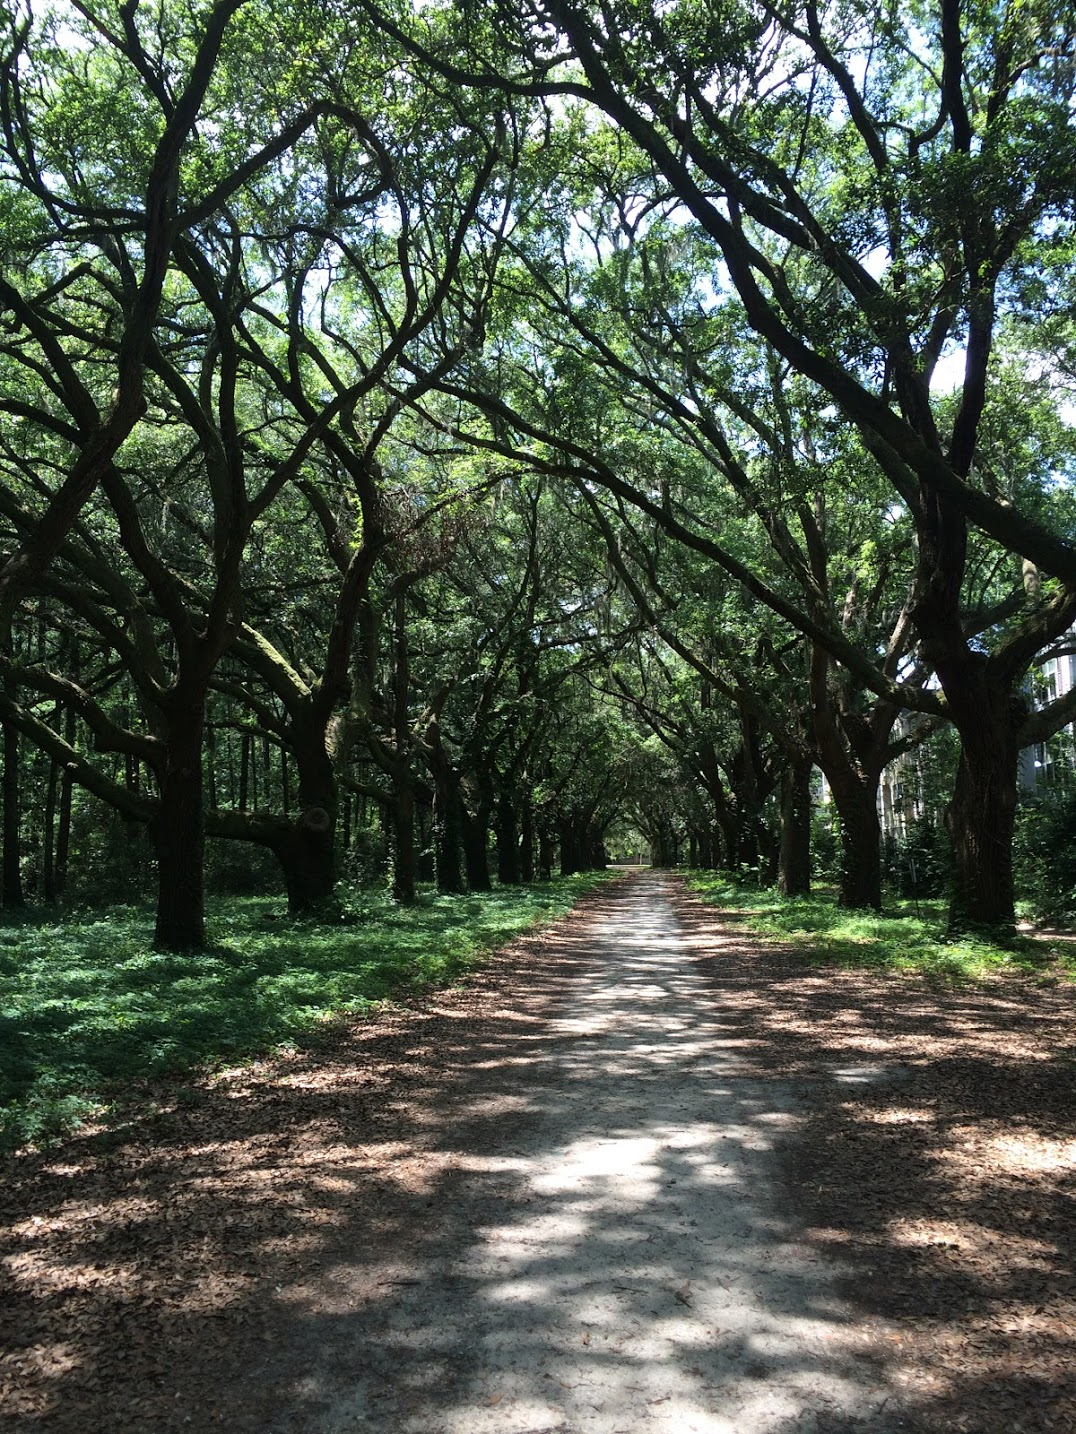
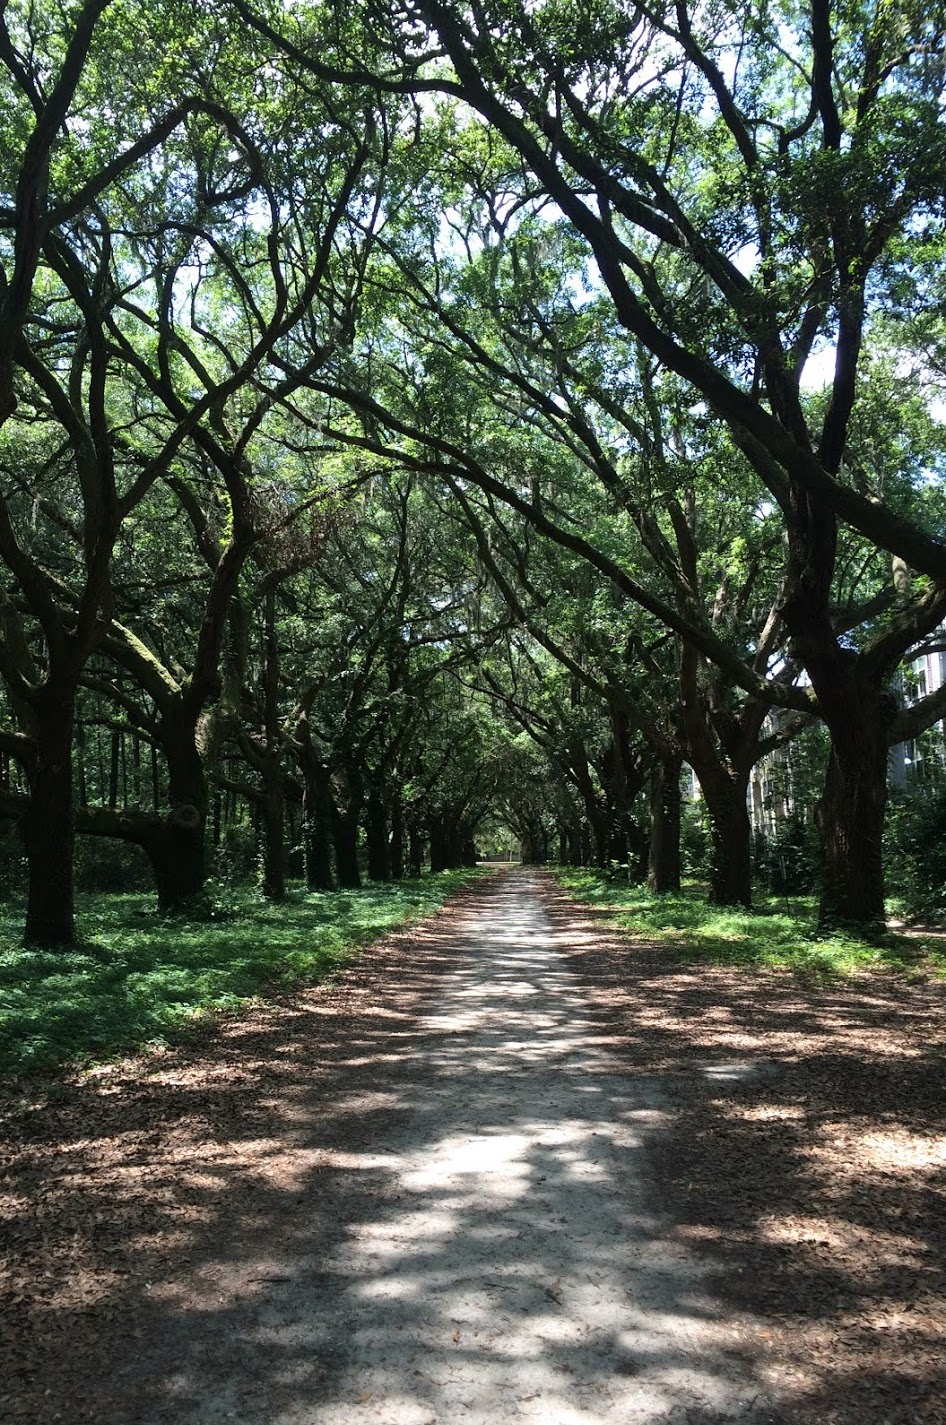
mobile image adjustments

diff --git a/assets/css/style.css b/assets/css/style.css
@@ -8,7 +8,7 @@ body {
 *****************************************************/
 
 .jumbotron {
-	background-image: url("../images/fenwick.JPG");
+	background-image: url("../images/fenwick640.JPG");
 	background-size: cover;
 	background-repeat: no-repeat;
 	background-position: center;
@@ -160,6 +160,10 @@ a {
 	font-size: large;
 }
 
+.descrip-left {
+	display: none
+}
+
 #whoMobile {
 	display: none;
 }
@@ -172,9 +176,14 @@ a {
 	background-position: center;
 }
 
+.mainPicContainer {
+	padding: 0;
+}
+
 #meAndSyd {
-	background-image: url("../images/MeAndSydney.JPG");
-	background-size: contain;
+	
+	background-image: url("../images/MeAndSyd640.JPG");
+	background-size: cover;
 	background-repeat: no-repeat;
 	background-position: center;
 	background-attachment: fixed;
@@ -292,10 +301,11 @@ footer hr {
 
 #portBanner {
 	width: 100%;
+	height: 20vh;
 }
 
 #portBackground {
-	background-image: url("../images/sand.jpg");
+	background-image: url("../images/sand640.jpg");
 	background-size: cover;
 	background-repeat: no-repeat;
 	background-position: bottom;
@@ -316,10 +326,28 @@ footer hr {
 		font-size: 60px;
 	}
 	#meAndSyd {
-		background-attachment: scroll;
-		background-size: cover;
+		background-image: url('../images/MeAndSydney.JPG');
+		background-repeat: no-repeat;
+		background-position: left;
+		background-attachment: unset;
 	}
+
+	#portBanner {
+		height: auto;
+	}
+
+	.jumbotron {
+		background-image: url("../images/fenwick.JPG");
+	    height: 94vh;
+	}
+	
+	#portBackground {
+		background-image: url("../images/sand.jpg");
+	    /* height: 94vh; */
+	}
+	
 }
+
 
 
 @media screen and (min-width: 768px) {
@@ -327,10 +355,21 @@ footer hr {
 		text-align: left;
 	}
 
-	.jumbotron {
-		background-image: url("../images/fenwick.JPG");
-	    height: 94vh;
+	.mainPicContainer {
+		padding: 0 4px 0 0;
 	}
+
+	.descrip-left {
+		display: inherit;
+	}
+	
+	.descrip-right {
+		display: none;
+	}
+
+	
+	
+	
 
 	.logo {
 		top: 60%;

diff --git a/index.html b/index.html
@@ -208,7 +208,7 @@
 
 		<section class="container-fluid" id="who">
 			<div class="row">
-				<div class="col-sm-5 relativeP row-height noOverflow paddingZero">
+				<div class="col-sm-5 relativeP row-height noOverflow mainPicContainer">
 					<div class="relativeP row-height slide_in" id="meAndSyd">
 						<div class="slide_in_Text">
 							<p class="captionLg">Advocate for acceptance and neurodiversity awareness.
@@ -273,13 +273,18 @@
 			</div>
 			<div class="row mb-80">
 				
-				<div class="col-sm-6">
+				<div class="col-sm-6 descrip-left">
 					<h4 class="mt-60">LIRI</h4>
 					<p>LIRI is a language interpretation and recognition interface. This is a command-line interface Node.js app which will search different APIs and return tour dates of bands/artists, information about a movie, or information about a particular song.  </p>
 					<a href="https://github.com/dscarlin/liri/blob/master/README.md" class="btn btn-default" target="_blank">Visit the Repo</a>
 				</div>
 				<div class="col-sm-6">
 					<img src="assets/images/movieAndSpotify.png" width="90%">
+				</div>
+				<div class="col-sm-6 descrip-right">
+					<h4 class="mt-60">LIRI</h4>
+					<p>LIRI is a language interpretation and recognition interface. This is a command-line interface Node.js app which will search different APIs and return tour dates of bands/artists, information about a movie, or information about a particular song.  </p>
+					<a href="https://github.com/dscarlin/liri/blob/master/README.md" class="btn btn-default" target="_blank">Visit the Repo</a>
 				</div>
 			</div>
 			<div class="row mb-80">
